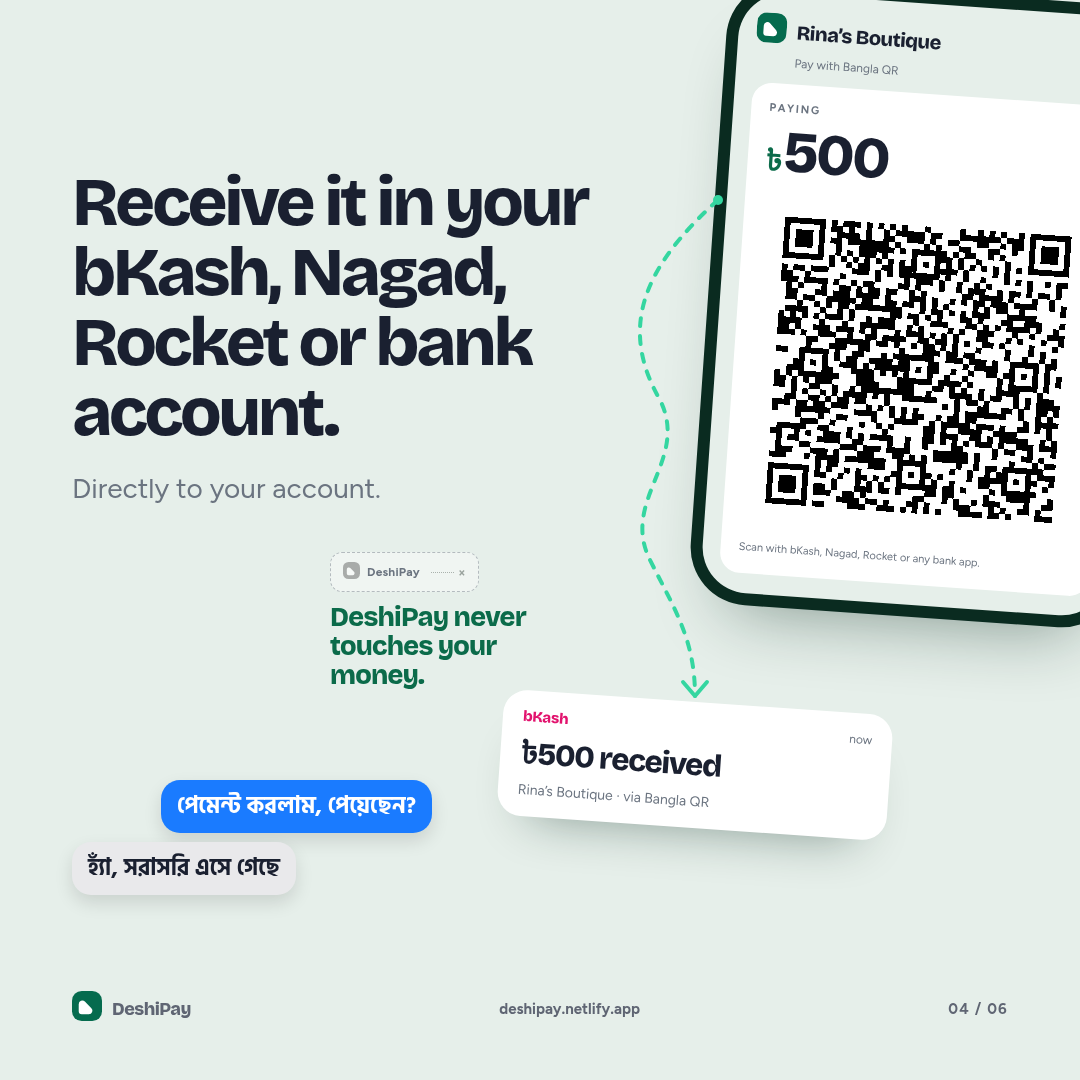
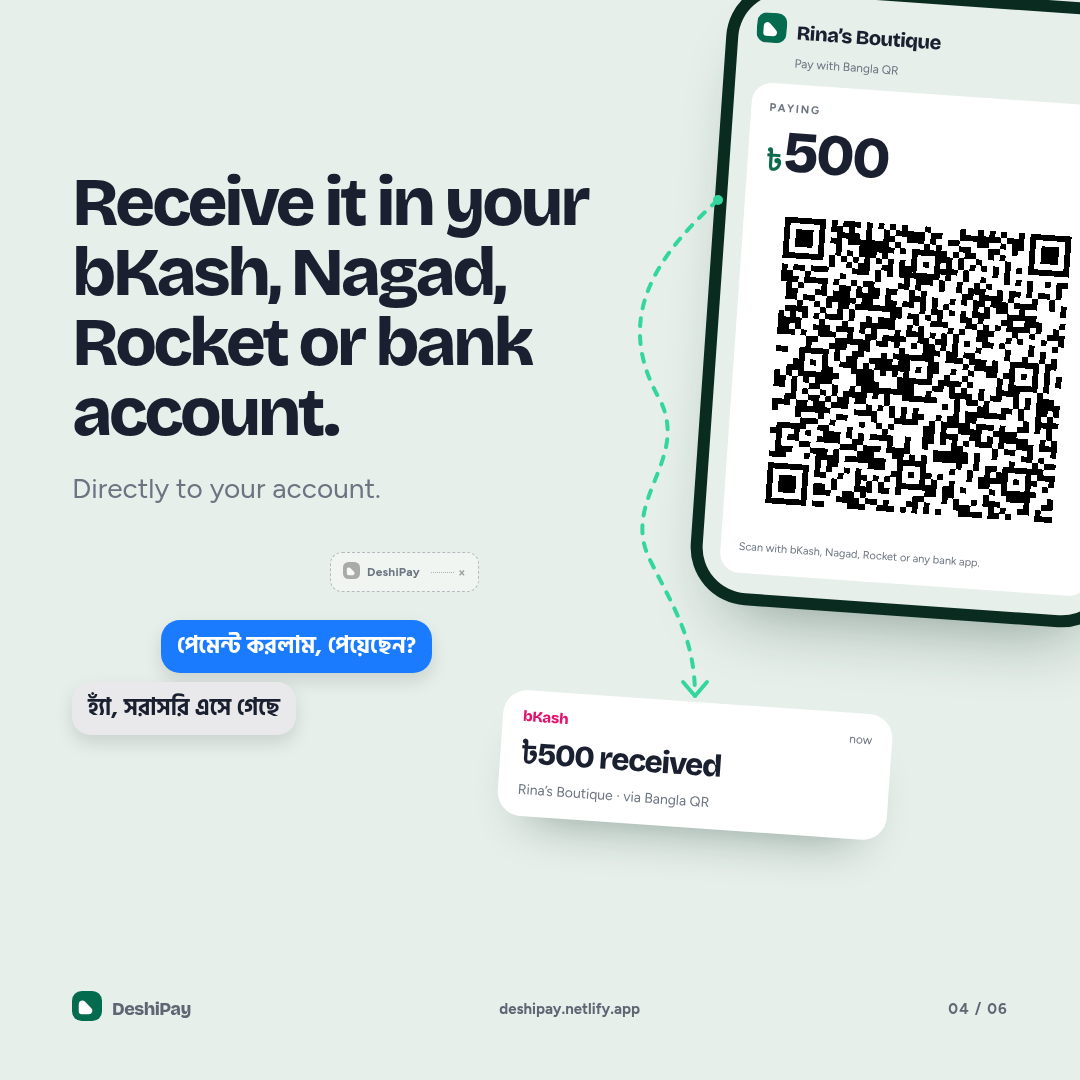
design(page4): remove stays-out caption and raise the chat bubbles

Changed region(s): [[0.0611, 0.55, 0.4889, 0.6722], [0.0611, 0.7028, 0.3972, 0.825]]

diff --git a/promotionals/social/source/social.html b/promotionals/social/source/social.html
@@ -94,7 +94,7 @@
   .pay-amount span { color:#0B6B4A; font-size:29px; }
   .s4-phone .qrbox { border-radius:0; }
   .pay-note { margin:10px 0 0; color:#6B7480; font-size:11px; line-height:1.45; }
-  .s4-chat { position:absolute; z-index:6; left:72px; top:780px; width:360px; }
+  .s4-chat { position:absolute; z-index:6; left:72px; top:620px; width:360px; }
   .s4-msg { width:max-content; max-width:100%; margin:0; padding:11px 16px; border-radius:19px; font-family:"Hind Siliguri","Noto Sans Bengali",sans-serif; font-weight:700; font-size:23px; line-height:1.35; box-shadow:0 8px 18px rgba(0,0,0,.12); }
   .s4-msg.ask { margin-left:auto; background:#1A7BFF; color:#fff; }
   .s4-msg.answer { margin-top:9px; background:#E9E9EB; color:#1A2030; }
@@ -174,7 +174,6 @@
     </div></div>
     <div class="s4-stays">
       <div class="s4-tag"><span data-mark></span><b>DeshiPay</b><span class="tag-cut" aria-hidden="true">×</span></div>
-      <p class="s4-caption">DeshiPay never touches your money.</p>
     </div>
     <div class="s4-notif">
       <div class="notif-top"><b>bKash</b><span>now</span></div>
